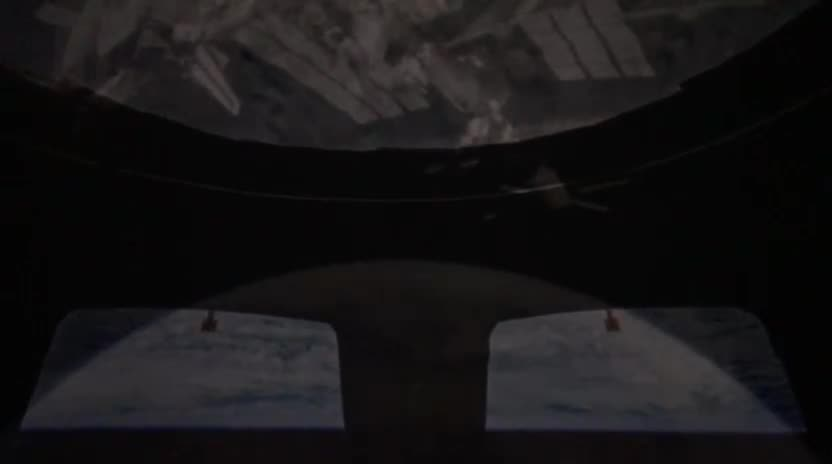
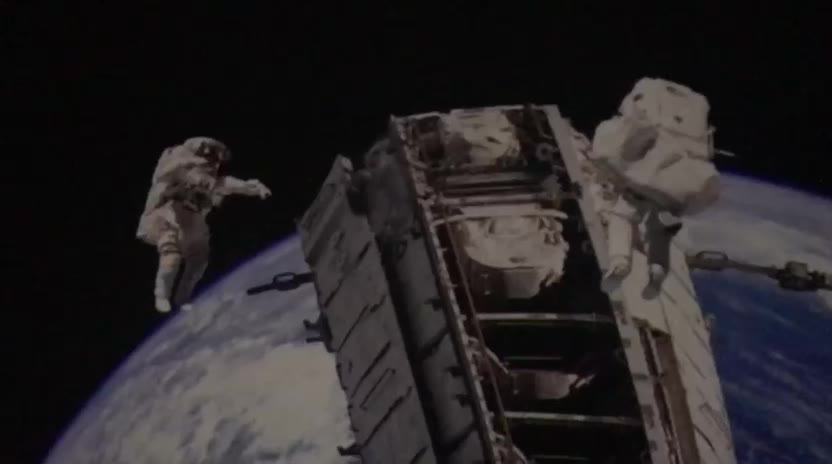
Hero 'Watch our video' now plays the space station video
Claude-Session: https://claude.ai/code/session_01EYTYcJPuBSjSV6Hp8NWuQd

diff --git a/index.html b/index.html
@@ -106,7 +106,7 @@
     <p class="hero-fade d1">Step inside our inflatable dome and journey through the stars, planets and galaxies. It's an unforgettable, hands-on astronomy experience for schools, groups, parties and festivals.</p>
     <div class="cta hero-fade d2">
       <a href="#book" class="btn btn-primary magnetic">Book your show <svg viewBox="0 0 24 24" fill="none" stroke="currentColor" stroke-width="2"><path d="M5 12h14M13 6l6 6-6 6"/></svg></a>
-      <button class="btn btn-ghost magnetic" data-play="video/intro-full.mp4" data-poster="video/hero-poster.jpg"><span class="play"><svg viewBox="0 0 24 24" fill="currentColor"><path d="M8 5v14l11-7z"/></svg></span>Watch our video</button>
+      <button class="btn btn-ghost magnetic" data-play="video/space-station.mp4" data-poster="video/space-station.jpg"><span class="play"><svg viewBox="0 0 24 24" fill="currentColor"><path d="M8 5v14l11-7z"/></svg></span>Watch our video</button>
     </div>
     <div class="hero-badges hero-fade d3">
       <a class="pill" href="schools.html"><i></i>Primary &amp; Secondary Schools</a>
